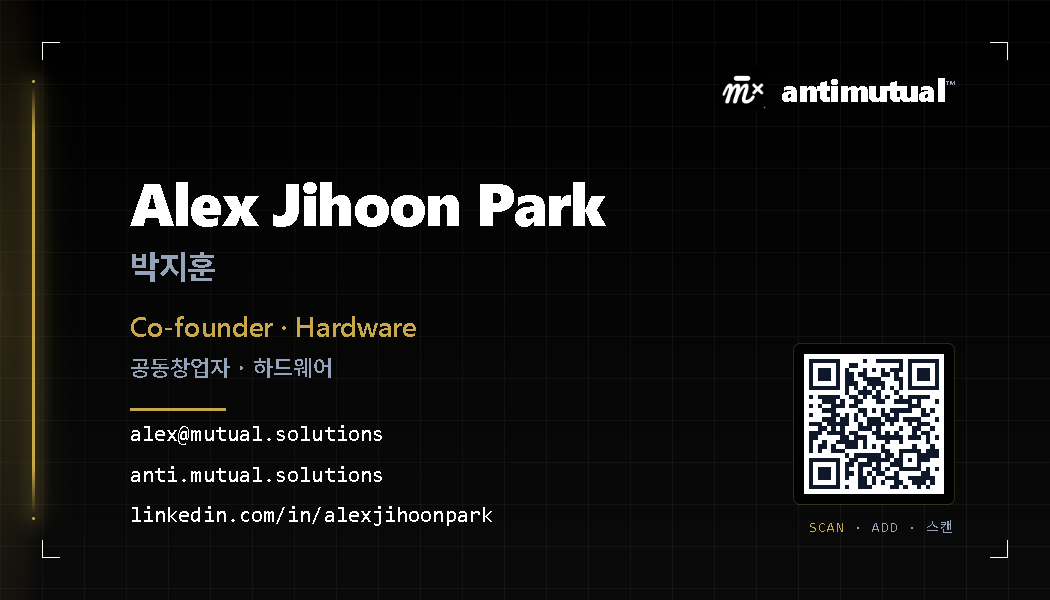
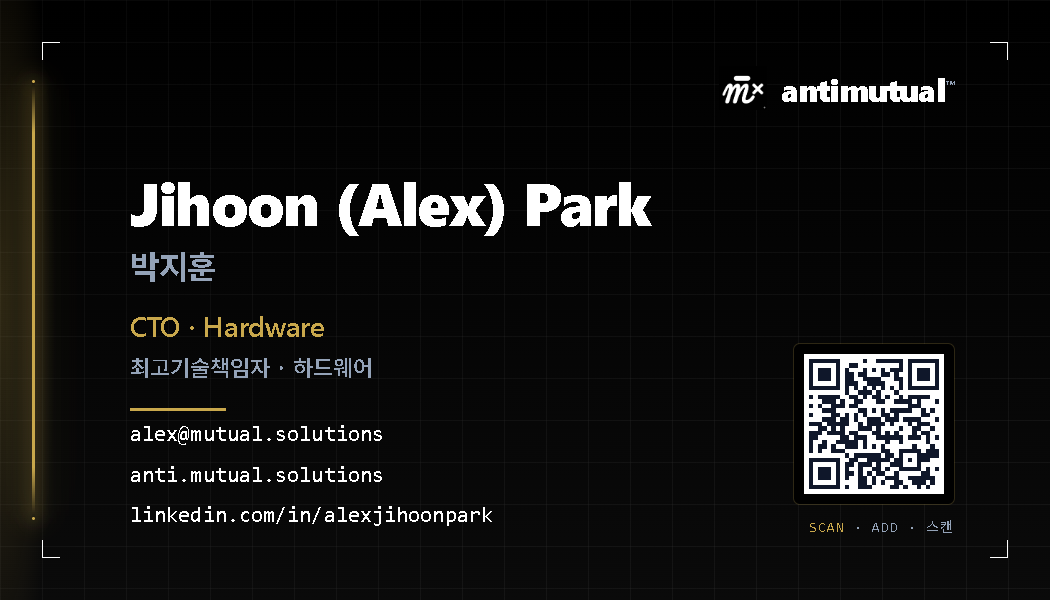
Lab Edge · Alex name → 'Jihoon (Alex) Park', title → CTO · Hardware
Updates the local HOLDERS in generate-lab-edge.cjs:
- Alex display name: 'Alex Jihoon Park' → 'Jihoon (Alex) Park'
- Title: 'Co-founder · Hardware' → 'CTO · Hardware'
- Korean title: '공동창업자 · 하드웨어' → '최고기술책임자 · 하드웨어'

Also localizes the FEK-1 Korean tagline to match the shorter antimutual
slogan applied to the English line earlier:
- '진본은 출처에서 시작됩니다.' → '카메라와 마이크. 진본을 증명합니다.'

Other variants and Yejun unchanged.

Changed region(s): [[0.1219, 0.3, 0.64, 0.39], [0.1219, 0.51, 0.3962, 0.57], [0.1219, 0.6, 0.3657, 0.63]]

diff --git a/.canva-build/v-tech-edge-capture-back-alex.html b/.canva-build/v-tech-edge-capture-back-alex.html
@@ -30,10 +30,10 @@ html,body{width:1050px;height:600px;background:#000000;font-family:'Inter','Sego
 
   <!-- name block -->
   <div style="position:absolute;top:172px;left:130px;max-width:600px;z-index:2">
-    <div style="font-weight:800;font-size:60px;letter-spacing:-1.8px;color:#fff;line-height:1">Alex Jihoon Park</div>
+    <div style="font-weight:800;font-size:60px;letter-spacing:-1.8px;color:#fff;line-height:1">Jihoon (Alex) Park</div>
     <div class="ko" style="margin-top:10px;font-weight:700;font-size:32px;color:#94a3b8;letter-spacing:-0.4px">박지훈</div>
-    <div style="margin-top:18px;font-weight:600;font-size:28px;color:#c9a84c;letter-spacing:-0.3px">Co-founder · Hardware</div>
-    <div class="ko" style="margin-top:6px;font-weight:500;font-size:22px;color:#94a3b8">공동창업자 · 하드웨어</div>
+    <div style="margin-top:18px;font-weight:600;font-size:28px;color:#c9a84c;letter-spacing:-0.3px">CTO · Hardware</div>
+    <div class="ko" style="margin-top:6px;font-weight:500;font-size:22px;color:#94a3b8">최고기술책임자 · 하드웨어</div>
     <div style="margin-top:26px;width:96px;height:3px;background:#c9a84c"></div>
   </div>
 

diff --git a/.canva-build/v-tech-edge-dual-back-alex.html b/.canva-build/v-tech-edge-dual-back-alex.html
@@ -28,10 +28,10 @@ html,body{width:1050px;height:600px;background:#0f172a;font-family:'Inter','Sego
 
   <!-- name block -->
   <div style="position:absolute;top:172px;left:120px;max-width:600px;z-index:2">
-    <div style="font-weight:800;font-size:60px;letter-spacing:-1.8px;color:#fff;line-height:1">Alex Jihoon Park</div>
+    <div style="font-weight:800;font-size:60px;letter-spacing:-1.8px;color:#fff;line-height:1">Jihoon (Alex) Park</div>
     <div class="ko" style="margin-top:10px;font-weight:700;font-size:32px;color:#94a3b8;letter-spacing:-0.4px">박지훈</div>
-    <div style="margin-top:18px;font-weight:600;font-size:28px;color:#22d3ee;letter-spacing:-0.3px">Co-founder · Hardware</div>
-    <div class="ko" style="margin-top:6px;font-weight:500;font-size:22px;color:#94a3b8">공동창업자 · 하드웨어</div>
+    <div style="margin-top:18px;font-weight:600;font-size:28px;color:#22d3ee;letter-spacing:-0.3px">CTO · Hardware</div>
+    <div class="ko" style="margin-top:6px;font-weight:500;font-size:22px;color:#94a3b8">최고기술책임자 · 하드웨어</div>
     <div style="margin-top:26px;width:96px;height:3px;background:#22d3ee"></div>
   </div>
 

diff --git a/.canva-build/v-tech-edge-fek1-back-alex.html b/.canva-build/v-tech-edge-fek1-back-alex.html
@@ -30,10 +30,10 @@ html,body{width:1050px;height:600px;background:#000000;font-family:'Inter','Sego
 
   <!-- name block -->
   <div style="position:absolute;top:172px;left:130px;max-width:600px;z-index:2">
-    <div style="font-weight:800;font-size:60px;letter-spacing:-1.8px;color:#fff;line-height:1">Alex Jihoon Park</div>
+    <div style="font-weight:800;font-size:60px;letter-spacing:-1.8px;color:#fff;line-height:1">Jihoon (Alex) Park</div>
     <div class="ko" style="margin-top:10px;font-weight:700;font-size:32px;color:#94a3b8;letter-spacing:-0.4px">박지훈</div>
-    <div style="margin-top:18px;font-weight:600;font-size:28px;color:#c9a84c;letter-spacing:-0.3px">Co-founder · Hardware</div>
-    <div class="ko" style="margin-top:6px;font-weight:500;font-size:22px;color:#94a3b8">공동창업자 · 하드웨어</div>
+    <div style="margin-top:18px;font-weight:600;font-size:28px;color:#c9a84c;letter-spacing:-0.3px">CTO · Hardware</div>
+    <div class="ko" style="margin-top:6px;font-weight:500;font-size:22px;color:#94a3b8">최고기술책임자 · 하드웨어</div>
     <div style="margin-top:26px;width:96px;height:3px;background:#c9a84c"></div>
   </div>
 

diff --git a/.canva-build/v-tech-edge-frame-back-alex.html b/.canva-build/v-tech-edge-frame-back-alex.html
@@ -33,10 +33,10 @@ html,body{width:1050px;height:600px;background:#0f172a;font-family:'Inter','Sego
 
   <!-- name block -->
   <div style="position:absolute;top:172px;left:110px;max-width:600px;z-index:2">
-    <div style="font-weight:800;font-size:60px;letter-spacing:-1.8px;color:#fff;line-height:1">Alex Jihoon Park</div>
+    <div style="font-weight:800;font-size:60px;letter-spacing:-1.8px;color:#fff;line-height:1">Jihoon (Alex) Park</div>
     <div class="ko" style="margin-top:10px;font-weight:700;font-size:32px;color:#94a3b8;letter-spacing:-0.4px">박지훈</div>
-    <div style="margin-top:18px;font-weight:600;font-size:28px;color:#22d3ee;letter-spacing:-0.3px">Co-founder · Hardware</div>
-    <div class="ko" style="margin-top:6px;font-weight:500;font-size:22px;color:#94a3b8">공동창업자 · 하드웨어</div>
+    <div style="margin-top:18px;font-weight:600;font-size:28px;color:#22d3ee;letter-spacing:-0.3px">CTO · Hardware</div>
+    <div class="ko" style="margin-top:6px;font-weight:500;font-size:22px;color:#94a3b8">최고기술책임자 · 하드웨어</div>
     <div style="margin-top:26px;width:96px;height:3px;background:#22d3ee"></div>
   </div>
 

diff --git a/.canva-build/v-tech-edge-halo-back-alex.html b/.canva-build/v-tech-edge-halo-back-alex.html
@@ -30,10 +30,10 @@ html,body{width:1050px;height:600px;background:#0f172a;font-family:'Inter','Sego
 
   <!-- name block -->
   <div style="position:absolute;top:172px;left:130px;max-width:600px;z-index:2">
-    <div style="font-weight:800;font-size:60px;letter-spacing:-1.8px;color:#fff;line-height:1">Alex Jihoon Park</div>
+    <div style="font-weight:800;font-size:60px;letter-spacing:-1.8px;color:#fff;line-height:1">Jihoon (Alex) Park</div>
     <div class="ko" style="margin-top:10px;font-weight:700;font-size:32px;color:#94a3b8;letter-spacing:-0.4px">박지훈</div>
-    <div style="margin-top:18px;font-weight:600;font-size:28px;color:#22d3ee;letter-spacing:-0.3px">Co-founder · Hardware</div>
-    <div class="ko" style="margin-top:6px;font-weight:500;font-size:22px;color:#94a3b8">공동창업자 · 하드웨어</div>
+    <div style="margin-top:18px;font-weight:600;font-size:28px;color:#22d3ee;letter-spacing:-0.3px">CTO · Hardware</div>
+    <div class="ko" style="margin-top:6px;font-weight:500;font-size:22px;color:#94a3b8">최고기술책임자 · 하드웨어</div>
     <div style="margin-top:26px;width:96px;height:3px;background:#22d3ee"></div>
   </div>
 

diff --git a/.canva-build/v-tech-edge-notch-back-alex.html b/.canva-build/v-tech-edge-notch-back-alex.html
@@ -36,10 +36,10 @@ html,body{width:1050px;height:600px;background:#0f172a;font-family:'Inter','Sego
 
   <!-- name block -->
   <div style="position:absolute;top:172px;left:130px;max-width:600px;z-index:2">
-    <div style="font-weight:800;font-size:60px;letter-spacing:-1.8px;color:#fff;line-height:1">Alex Jihoon Park</div>
+    <div style="font-weight:800;font-size:60px;letter-spacing:-1.8px;color:#fff;line-height:1">Jihoon (Alex) Park</div>
     <div class="ko" style="margin-top:10px;font-weight:700;font-size:32px;color:#94a3b8;letter-spacing:-0.4px">박지훈</div>
-    <div style="margin-top:18px;font-weight:600;font-size:28px;color:#22d3ee;letter-spacing:-0.3px">Co-founder · Hardware</div>
-    <div class="ko" style="margin-top:6px;font-weight:500;font-size:22px;color:#94a3b8">공동창업자 · 하드웨어</div>
+    <div style="margin-top:18px;font-weight:600;font-size:28px;color:#22d3ee;letter-spacing:-0.3px">CTO · Hardware</div>
+    <div class="ko" style="margin-top:6px;font-weight:500;font-size:22px;color:#94a3b8">최고기술책임자 · 하드웨어</div>
     <div style="margin-top:26px;width:96px;height:3px;background:#22d3ee"></div>
   </div>
 

diff --git a/.canva-build/v-tech-edge-pulse-back-alex.html b/.canva-build/v-tech-edge-pulse-back-alex.html
@@ -26,10 +26,10 @@ html,body{width:1050px;height:600px;background:#0f172a;font-family:'Inter','Sego
 
   <!-- name block -->
   <div style="position:absolute;top:172px;left:130px;max-width:600px;z-index:2">
-    <div style="font-weight:800;font-size:60px;letter-spacing:-1.8px;color:#fff;line-height:1">Alex Jihoon Park</div>
+    <div style="font-weight:800;font-size:60px;letter-spacing:-1.8px;color:#fff;line-height:1">Jihoon (Alex) Park</div>
     <div class="ko" style="margin-top:10px;font-weight:700;font-size:32px;color:#94a3b8;letter-spacing:-0.4px">박지훈</div>
-    <div style="margin-top:18px;font-weight:600;font-size:28px;color:#22d3ee;letter-spacing:-0.3px">Co-founder · Hardware</div>
-    <div class="ko" style="margin-top:6px;font-weight:500;font-size:22px;color:#94a3b8">공동창업자 · 하드웨어</div>
+    <div style="margin-top:18px;font-weight:600;font-size:28px;color:#22d3ee;letter-spacing:-0.3px">CTO · Hardware</div>
+    <div class="ko" style="margin-top:6px;font-weight:500;font-size:22px;color:#94a3b8">최고기술책임자 · 하드웨어</div>
     <div style="margin-top:26px;width:96px;height:3px;background:#22d3ee"></div>
   </div>
 

diff --git a/.canva-build/v-tech-edge-stack-back-alex.html b/.canva-build/v-tech-edge-stack-back-alex.html
@@ -26,10 +26,10 @@ html,body{width:1050px;height:600px;background:#0f172a;font-family:'Inter','Sego
 
   <!-- name block -->
   <div style="position:absolute;top:172px;left:140px;max-width:600px;z-index:2">
-    <div style="font-weight:800;font-size:60px;letter-spacing:-1.8px;color:#fff;line-height:1">Alex Jihoon Park</div>
+    <div style="font-weight:800;font-size:60px;letter-spacing:-1.8px;color:#fff;line-height:1">Jihoon (Alex) Park</div>
     <div class="ko" style="margin-top:10px;font-weight:700;font-size:32px;color:#94a3b8;letter-spacing:-0.4px">박지훈</div>
-    <div style="margin-top:18px;font-weight:600;font-size:28px;color:#22d3ee;letter-spacing:-0.3px">Co-founder · Hardware</div>
-    <div class="ko" style="margin-top:6px;font-weight:500;font-size:22px;color:#94a3b8">공동창업자 · 하드웨어</div>
+    <div style="margin-top:18px;font-weight:600;font-size:28px;color:#22d3ee;letter-spacing:-0.3px">CTO · Hardware</div>
+    <div class="ko" style="margin-top:6px;font-weight:500;font-size:22px;color:#94a3b8">최고기술책임자 · 하드웨어</div>
     <div style="margin-top:26px;width:96px;height:3px;background:#22d3ee"></div>
   </div>
 

diff --git a/.canva-build/v-tech-edge-capture-front.html b/.canva-build/v-tech-edge-capture-front.html
@@ -30,7 +30,7 @@ html,body{width:1050px;height:600px;background:#000000;font-family:'Inter','Sego
 
   <!-- tagline (Korean primary, English secondary) -->
   <div style="position:absolute;left:130px;bottom:172px;text-align:left;z-index:2">
-    <div class="ko" style="font-weight:700;font-size:36px;color:#8c7332;letter-spacing:-0.8px;line-height:1.2">진본은 출처에서 시작됩니다.</div>
+    <div class="ko" style="font-weight:700;font-size:36px;color:#8c7332;letter-spacing:-0.8px;line-height:1.2">카메라와 마이크. 진본을 증명합니다.</div>
     <div style="margin-top:14px;font-weight:600;font-size:30px;color:#94a3b8;letter-spacing:-0.4px;line-height:1.3;font-style:italic;font-family:'Playfair Display','Georgia','Times New Roman',serif;">Cameras and mics. Proven real.</div>
   </div>
 

diff --git a/.canva-build/v-tech-edge-fek1-front.html b/.canva-build/v-tech-edge-fek1-front.html
@@ -30,7 +30,7 @@ html,body{width:1050px;height:600px;background:#000000;font-family:'Inter','Sego
 
   <!-- tagline (Korean primary, English secondary) -->
   <div style="position:absolute;left:130px;bottom:172px;text-align:left;z-index:2">
-    <div class="ko" style="font-weight:700;font-size:36px;color:#8c7332;letter-spacing:-0.8px;line-height:1.2">진본은 출처에서 시작됩니다.</div>
+    <div class="ko" style="font-weight:700;font-size:36px;color:#8c7332;letter-spacing:-0.8px;line-height:1.2">카메라와 마이크. 진본을 증명합니다.</div>
     <div style="margin-top:14px;font-weight:600;font-size:30px;color:#94a3b8;letter-spacing:-0.4px;line-height:1.3;font-style:italic;font-family:'Playfair Display','Georgia','Times New Roman',serif;">Cameras and mics. Proven real.</div>
   </div>
 
